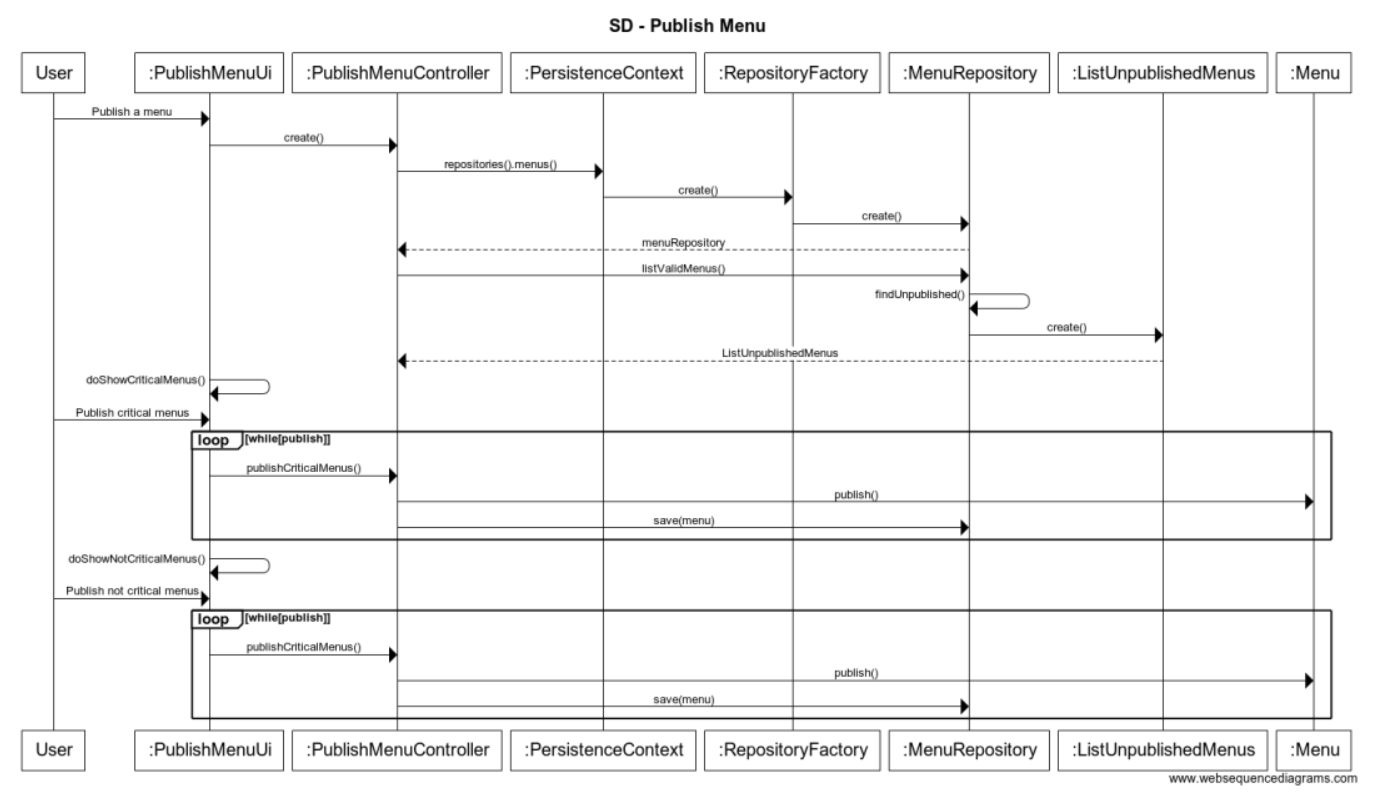
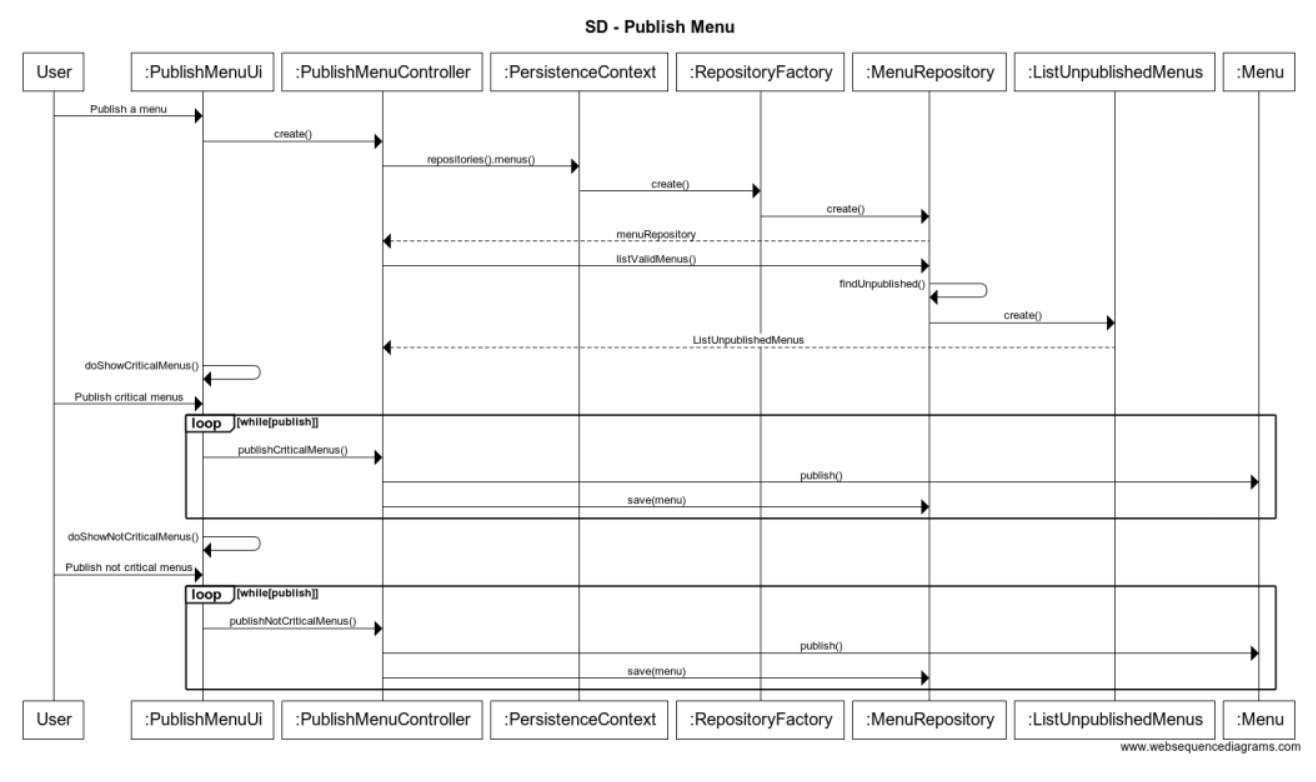
[InProgress  #20] Implementation of UC - Publish Menu

Changed region(s): [[0.0, 0.0, 0.997, 0.9821], [0.0, 0.89, 0.0623, 0.9821]]

diff --git a/ecafeteria.core/src/main/java/eapli/ecafeteria/application/menus/PublishMenuController.java b/ecafeteria.core/src/main/java/eapli/ecafeteria/application/menus/PublishMenuController.java
@@ -1,0 +1,59 @@
+/*
+ * To change this license header, choose License Headers in Project Properties.
+ * To change this template file, choose Tools | Templates
+ * and open the template in the editor.
+ */
+package eapli.ecafeteria.application.menus;
+
+import eapli.ecafeteria.application.authz.AuthorizationService;
+import eapli.ecafeteria.domain.authz.ActionRight;
+import eapli.ecafeteria.domain.menu.ListUnpublishedMenus;
+import eapli.ecafeteria.domain.menu.Menu;
+import eapli.ecafeteria.persistence.MenuRepository;
+import eapli.ecafeteria.persistence.PersistenceContext;
+import eapli.framework.application.Controller;
+import eapli.framework.persistence.DataConcurrencyException;
+import eapli.framework.persistence.DataIntegrityViolationException;
+
+/**
+ *
+ * @author Rui Ribeiro <1150344@isep.ipp.pt>
+ */
+public class PublishMenuController implements Controller {
+    
+    //private final ListMenuService svc = new ListMenuService();
+    private final MenuRepository menuRepository = PersistenceContext.repositories().menus();
+    private final ListUnpublishedMenus m_list = new ListUnpublishedMenus(menuRepository.listValidMenus());
+    
+    public void publishCriticalMenus() throws DataConcurrencyException, DataIntegrityViolationException {
+        AuthorizationService.ensurePermissionOfLoggedInUser(ActionRight.MANAGE_MENUS);
+        if(m_list.criticalMenus() == null) {
+            throw new IllegalArgumentException();
+        }
+        publishMenus(m_list.criticalMenus());
+    }
+    
+    public void publishNotCriticalMenus() throws DataConcurrencyException, DataIntegrityViolationException {
+        AuthorizationService.ensurePermissionOfLoggedInUser(ActionRight.MANAGE_MENUS);
+        if(m_list.notCriticalMenus() == null) {
+            throw new IllegalArgumentException();
+        }
+        publishMenus(m_list.notCriticalMenus());
+    }
+    
+    private String publishMenus(Iterable<Menu> menus) throws DataConcurrencyException, DataIntegrityViolationException {
+        int published = 0;
+        int unpublished = 0;
+        
+        for (Menu menu : menus) {
+            if(menu.publish()) {
+                published++;
+            } else {
+                unpublished++;
+            }
+            menuRepository.save(menu);
+        }
+        return String.format("Published Menus: %d\nUnpublished Menus: %d\n", published, unpublished);
+    }
+    
+}

diff --git a/ecafeteria.core/src/main/java/eapli/ecafeteria/domain/menu/Menu.java b/ecafeteria.core/src/main/java/eapli/ecafeteria/domain/menu/Menu.java
@@ -168,9 +168,14 @@ public class Menu implements AggregateRoot<Period>, Serializable {
      * Method that changes the state of a menu to published
      *
      * @author Raúl Correia
+     * @return true if the menu is published, false if is already published
      */
-    public void publish() {
+    public boolean publish() {
+        if(menuState == MenuState.PUBLISHED) {
+            return false;
+        }
         menuState = MenuState.PUBLISHED;
+        return true;
     }
 
     /**
